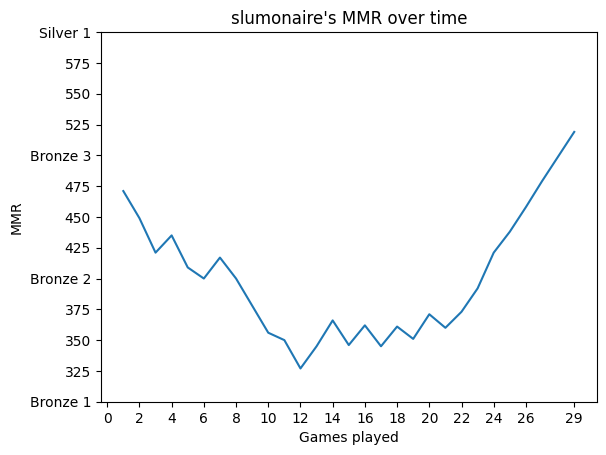
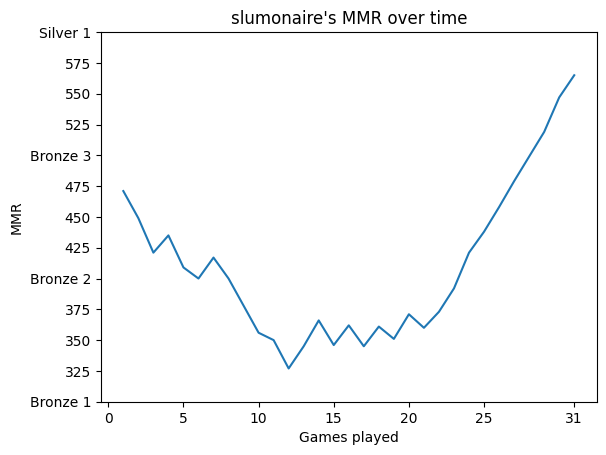
testing out curvy graphs

diff --git a/playground.py b/playground.py
@@ -1,17 +1,133 @@
-import requests
-import json
+import numpy as np
+from scipy.interpolate import make_interp_spline
+import matplotlib.pyplot as plt
+import os
+import valorant
+import playerclass
+import math
 
-url = "https://api.thecatapi.com/v1/images/search?format=json"
-
-payload={}
-files={}
-headers = {
-  'Content-Type': 'application/json',
-  'x-api-key': '17d94b92-754f-46eb-99a0-65be65b5d18f'
+ranks = {
+0 : "Iron 1", 100 : "Iron 2", 200 : "Iron 3",
+300 : "Bronze 1", 400 : "Bronze 2", 500 : "Bronze 3",
+600 : "Silver 1", 700 : "Silver 2", 800 : "Silver 3",
+900 : "Gold 1", 1000 : "Gold 2", 1100 : "Gold 3",
+1200 : "Platinum 1", 1300 : "Platinum 2", 1400 : "Platinum 3",
+1500 : "Diamond 1", 1600 : "Diamond 2", 1700 : "Diamond 3",
+1800 : "Immortal"
 }
 
-response = requests.request("GET", url, headers=headers, data=payload, files=files)
-loaded = json.loads(response.text)
+def roundup(x):
+  return int(math.ceil(x / 100.0)) * 100
 
-print(response.text)
+def rounddown(x):
+  return int(math.floor(x / 100.0)) * 100
 
+def make_graph(username):
+
+  if os.path.isfile('/home/ubuntu/discord_bot/elo_history/{}.txt'.format(username)) == False:
+      return False
+  
+  playerlist = playerclass.PlayerList('playerlist.csv')
+  playerlist.load()
+
+  tagline = ""
+  for player in playerlist.players:
+      if player.ign == username:
+          tagline = player.tag
+          break
+
+  valorant.update_elo_history(username, tagline)
+  
+  file1 = open('/home/ubuntu/discord_bot/elo_history/{}.txt'.format(username), 'r')
+
+  y = [x.strip() for x in file1.readlines()]
+  if len(y) == 2:
+      return None
+  y.pop(0)
+  x = []
+
+  for i in range(0, len(y)):
+      y[i] = int(y[i])
+      x.append(i + 1)
+
+  ymin = rounddown(min(y))
+  ymax = roundup(max(y))
+
+  axes = plt.gca()
+  axes.set_ylim([ymin,ymax])
+  
+  ticks = []
+  i = int(math.floor(ymin / 50.0)) * 50
+
+  ranger = int((ymax-ymin)/100)
+
+  while i <= int(math.ceil(ymax / 50.0)) * 50:
+      ticks.append(i)
+      if ranger == 1:
+          i += 20
+      elif ranger > 4:
+          i += 50
+      else:
+          i += 25
+
+  axes.set_yticks(ticks)
+  labely = []
+
+  for value in ticks:
+      if value % 100 != 0:
+          labely.append(str(value))
+
+      else:
+          labely.append(ranks[value])
+
+  tickx = []  
+  i = 0
+  j = 0
+
+  if len(x) <= 15:
+      j = 1
+  elif len(x) > 15 and len(x) < 30:
+      j = 2
+  elif len(x) >= 30 and len(x) < 70:
+      j = 5
+  elif len(x) >= 70 and len(x) < 150:
+      j = 10
+
+  if len(x) < 150:
+      while i <= len(x):
+          tickx.append(i)
+          i += j
+  
+      if x[-1] not in tickx:
+          if (x[-1] - tickx[-1]) < 4:
+              tickx[-1] = x[-1]
+          else:
+              tickx.append(x[-1])
+
+      axes.set_xticks(tickx)
+
+  axes.set_yticklabels(labely)
+  
+
+  X_Y_Spline = make_interp_spline(x, y)
+
+  # Returns evenly spaced numbers
+  # over a specified interval.
+  X_ = np.linspace(x[0], x[-1], 100)
+  Y_ = X_Y_Spline(X_)
+
+  # Plotting the Graph
+  plt.plot(X_, Y_)
+  plt.xlabel('Games played')
+  plt.ylabel('MMR')
+  plt.title(username + '\'s MMR over time')
+
+  plt.savefig('/home/ubuntu/discord_bot/testgraph.png', bbox_inches="tight")
+
+  file1.close()
+  plt.clf()
+
+  return True
+
+
+make_graph('fakinator')
